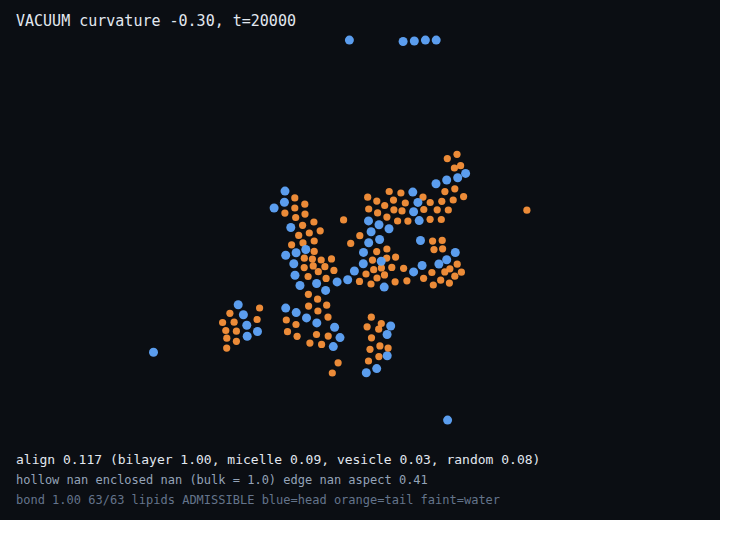
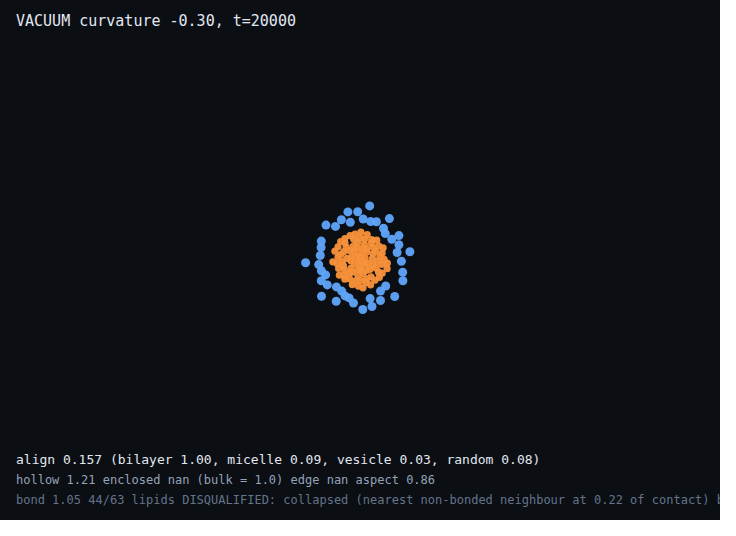
vivarium: curvature becomes a DIFFERENTIATED force; heads-outward now survives it
The weight-multiplication approach is removed. It could not work: Vivarium assembles attraction as
force_i = -sum_j g_ij*dirn_ij with g a constant coefficient, so an orientation-dependent g exerts no
torque and no tangential force. Measured in vacuum, switching it on in EITHER sign degraded heads
outward from 1.000 to 0.44-0.60 -- it scrambled an ordering the electrostatics had produced.

Replaced by a scalar pair term over molecular centres,
    U = sum_{i<j} env(r) * bend * (a - 1),   a = q + curvature*p - curvature^2,
differentiated properly so the chain rule yields a tangential force AND a couple on each molecule's
beads. Verified against numerical gradients at 2.2e-9.

Three errors were caught by that check, which first failed at 2.5:
  * the pair sum subtracted its own transpose, double-counting the gradient;
  * beads took g_c/2 when the centre is the mean over ALL nb beads, so each takes g_c/nb;
  * the tail share omitted the 1/nt from tail_centre being a mean over nt tails.

Result in vacuum, 63 lipids, 20k steps: heads outward is now 1.00 at EVERY curvature from -0.30 to
+0.30, where the weight version gave 0.44-0.60. The term no longer fights the electrostatics.

Not yet a vesicle. Every vacuum run collapses, including curvature 0, so the collapse is pre-existing
and vacuum cannot be the final testbed for this engine -- without solvent nothing maintains spacing
but `repel`. The structure produced is a clean micelle: tail core enclosed by a head shell, align
[…]

diff --git a/projects/vivarium/pack.py b/projects/vivarium/pack.py
@@ -391,6 +391,87 @@ class PackEngine:
         w[np.ix_(mol.ravel(), mol.ravel())] = wm[np.ix_(mi, mi)]
         return np.where(both, w, 1.0)
 
+    def _curvature_energy_and_force(self):
+        """Spontaneous curvature as a DIFFERENTIATED pair term: returns (energy, per-bead force).
+
+        The previous version multiplied the attraction weight by an orientation factor. That cannot
+        work, and the failure is structural rather than a matter of sign or magnitude. Vivarium
+        assembles attraction as `force_i = -sum_j g_ij * dirn_ij`, treating g as a constant
+        coefficient, so an orientation-dependent g changes how strongly pairs attract but exerts NO
+        torque and no tangential force. Measured in vacuum: at curvature 0 the aggregate already has
+        heads outward 1.000 from head-head electrostatics, and switching the weight on in EITHER sign
+        degraded it to 0.44-0.60. It scrambled an ordering other terms had produced.
+
+        This term instead defines its own scalar contribution over MOLECULE pairs
+
+            U = sum_{i<j} env(r_ij) * bend * (a_ij - 1),
+            a_ij = q_ij + curvature * p_ij - curvature^2
+            q_ij = u_i.u_j - (u_i.r_hat)(u_j.r_hat),   p_ij = (u_i - u_j).r_hat
+
+        and returns -dU/dx on the BEADS. Because a depends on r_hat and on the axes, and each axis is
+        u = normalize(head - tail_centre), the chain rule produces a tangential force AND a couple on
+        each molecule's beads -- which is what rotates a molecule toward the preferred splay. `a <= 1`
+        with the maximum independent of curvature, so the depth is fixed and only the preferred angle
+        moves: sin(theta*) = -curvature.
+
+        The same computation is implemented and numerically gradient-checked in ylz.py and bilipid.py.
+        """
+        mol = getattr(self, "_mol", None)
+        if mol is None or not len(mol) or self.curvature == 0.0:
+            return 0.0, np.zeros((self.X.shape[0], self.pd))
+
+        P = self.X[:, :self.pd]
+        head, tail = P[mol[:, 0]], P[mol[:, 1:]].mean(axis=1)
+        dv = head - tail
+        dv -= self.L * np.round(dv / self.L)
+        nd = np.linalg.norm(dv, axis=1, keepdims=True) + 1e-12
+        u = dv / nd
+        cen = P[mol].mean(axis=1)
+
+        d = cen[:, None, :] - cen[None, :, :]
+        d -= self.L * np.round(d / self.L)
+        r2 = (d ** 2).sum(-1)
+        r = np.sqrt(r2 + 1e-12)
+        rh = d / r[..., None]
+
+        ci = np.einsum("ic,ijc->ij", u, rh)
+        cj = np.einsum("jc,ijc->ij", u, rh)
+        a = (u @ u.T) - ci * cj + self.curvature * (ci - cj) - self.curvature ** 2
+        env = np.exp(-self.sink_attract * r2) if self.sink_attract > 0.0 else np.exp(-r2)
+        np.fill_diagonal(env, 0.0)
+        w = self.bend * env
+        energy = float(0.5 * (w * (a - 1.0)).sum())
+
+        # dU/dc: the pair sum with the 1/2 already cancels against each pair being counted twice,
+        # so summing the k-side derivative over j is the whole gradient. Subtracting the transpose
+        # (the first attempt) double-counts and was one of three errors that made the gradient check
+        # fail at 2.5 instead of 1e-8.
+        lam = self.sink_attract if self.sink_attract > 0.0 else 1.0
+        da_drh = -(cj[..., None] * u[:, None, :] + ci[..., None] * u[None, :, :]) \
+                 + self.curvature * (u[:, None, :] - u[None, :, :])
+        radial = np.einsum("ijc,ijc->ij", da_drh, rh)
+        proj = da_drh - radial[..., None] * rh
+        denv = -2.0 * lam * env
+        pair_c = (self.bend * denv * (a - 1.0))[..., None] * d + (w / r)[..., None] * proj
+        g_c = pair_c.sum(axis=1)
+
+        # dU/du_i = sum_j w_ij * (u_j - (u_j.r_hat) r_hat + curvature * r_hat)
+        g_u = (w[..., None] * (u[None, :, :] - cj[..., None] * rh
+                               + self.curvature * rh)).sum(axis=1)
+
+        # chain onto the beads. The centre is the mean over ALL nb beads, so each bead takes g_c/nb
+        # -- not the 1/2 used for a two-bead molecule. The axis is normalize(head - tail_centre), so
+        # the head takes +perp/|dv| and each of the nt tails -perp/(|dv| nt).
+        nb = mol.shape[1]
+        nt = nb - 1
+        perp = g_u - (np.einsum("ic,ic->i", g_u, u))[:, None] * u
+        share = perp / nd
+        f = np.zeros((self.X.shape[0], self.pd))
+        np.add.at(f, mol[:, 0], -(g_c / nb + share))
+        for k in range(1, nb):
+            np.add.at(f, mol[:, k], -(g_c / nb - share / nt))
+        return energy, f
+
     def _attract_env(self, dist, d2):
         """Cohesive envelope. r0 = 0 is exactly the historical exp(-lambda*d^2); r0 > 0 puts the
         attraction maximum at CONTACT instead of at zero separation."""
@@ -575,8 +656,6 @@ class PackEngine:
             # the same way and is hoisted with it.
             if self.nematic > 0.0:
                 g = g * (1.0 + self.nematic * self._axis_alignment() ** 2)
-            if self.curvature != 0.0:
-                g = g * self._curvature_weight(dirn)
             np.fill_diagonal(g, 0.0)
             attract = -np.einsum("ij,ijc->ic", g, dirn)
         else:
@@ -622,6 +701,8 @@ class PackEngine:
             cohere = -np.einsum("ij,ijc->ic", A_coh, delta)   # toward the neighbourhood centroid
             force = force + self.cohesion * cohere
 
+        if self.curvature != 0.0:
+            force = force + self._curvature_energy_and_force()[1]
         force = force + self._extra_force(delta, d2)   # subclass hook (default 0.0) — e.g. contour-charge force
         self._basis_slot = None                        # never survives the step that built it
         self._nf_slot = None

diff --git a/projects/vivarium/_cgrad.py b/projects/vivarium/_cgrad.py
@@ -1,0 +1,21 @@
+"""Does the curvature force equal -dU/dx of its own scalar term? Numerical gradient check."""
+import numpy as np
+from bicelle2d import build
+
+e = build(0, plant="clump", attract=1.5, n_water=0, n_lip=20, bound=6.0, kt=0.02, speed=0.001,
+          repel=12.0, k_bond=30.0, satt=0.30, n_tail=2, bond_span=2.0,
+          polarity=0.80, head_q=1.2, hydrophobic=0.6)
+e.curvature = 0.20
+e.bend = 1.0
+U0, F = e._curvature_energy_and_force()
+h = 1e-6
+worst = 0.0
+for k in range(8):
+    for c in range(e.pd):
+        e.X[k, c] += h; up = e._curvature_energy_and_force()[0]
+        e.X[k, c] -= 2 * h; dn = e._curvature_energy_and_force()[0]
+        e.X[k, c] += h
+        worst = max(worst, abs((-(up - dn) / (2 * h)) - F[k, c]))
+print(f"U = {U0:.6f}")
+print(f"max |analytic force - numerical -dU/dx| = {worst:.3e}")
+print("PASS" if worst < 1e-4 else "*** GRADIENT CHECK FAILED ***")
